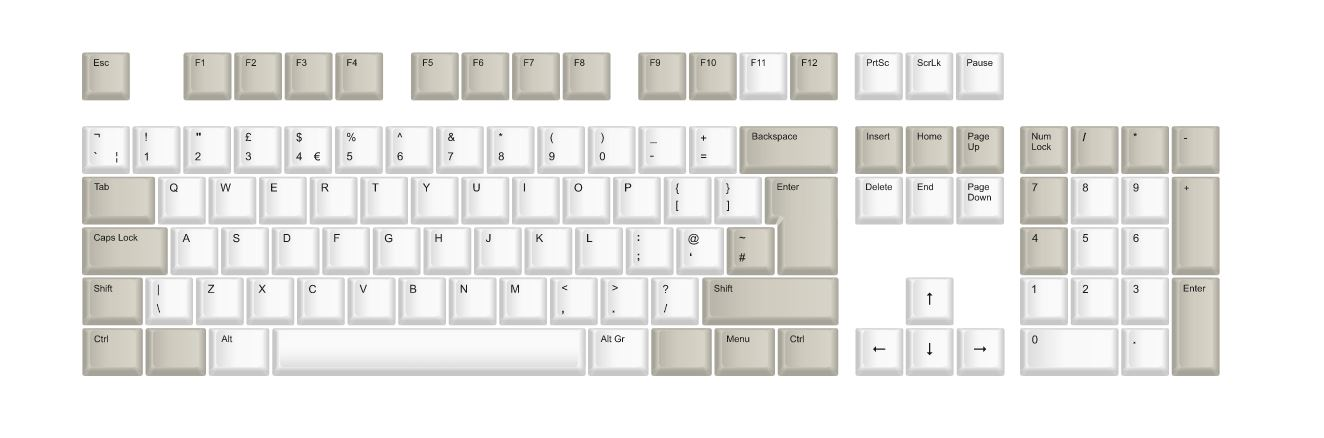
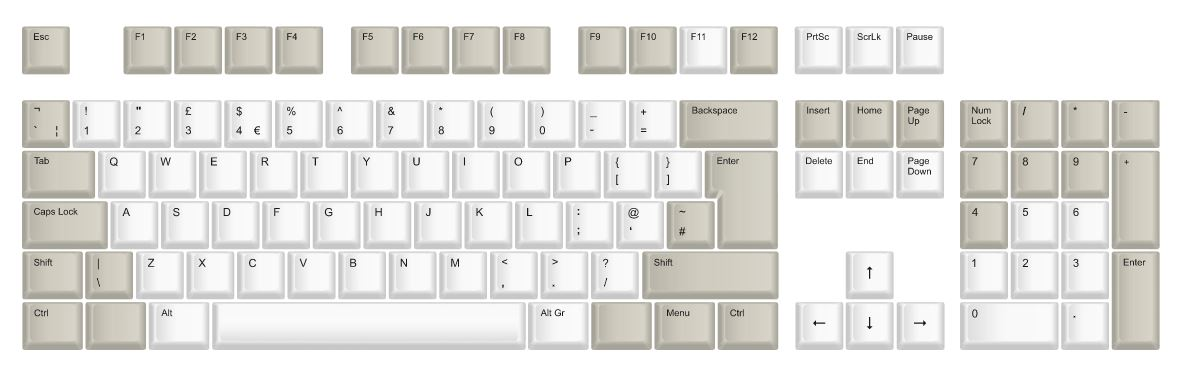
Fixes to WASD upload files after fixing keyboard snag list.
Split 2u Tab key into two 1u characters to avoid awful profile problem on tab key.

diff --git a/keyboardLayouts/README.md b/keyboardLayouts/README.md
@@ -11,12 +11,12 @@ a2000-cherry-keyboard-original.json - provides the layout of the original keyboa
 
 a2000-wasd-keycaps-v2.json - shows what the keyboard looks like after the necessary mods have been applied to make it compatible with WASD printed keycaps.
 
-![](a2000-wasd-keycaps-v2.JPG)
+![](a2000-wasd-keycaps.JPG)
 
 a2000-wasd-keycaps-with-from-keys-v2.json - is the same as above, with the exception that is also shows where the key is from on the WASD colour template / standard PC keyboard. For example 7 -> Numpad +, 4 -> Caps Lock. 
 
-![](a2000-wasd-keycaps-with-from-keys-v2.JPG)
+![](a2000-wasd-keycaps-with-from-keys.JPG)
 
 Finally, the file: a2000-wasd-row-profiles-v2.json show a colour gradient picture of the row profiles of the keys. To be honest, the row profiles may look somewhat odd. The colour gradient will hopefully give some idea about how the row profiles will look. The standard WASD keycap profile is 1,1,2,3,4,4. I have had to move some keys between rows. 
 
-![](a2000-wasd-row-profiles-v2.JPG)
+![](a2000-wasd-row-profiles.JPG)
